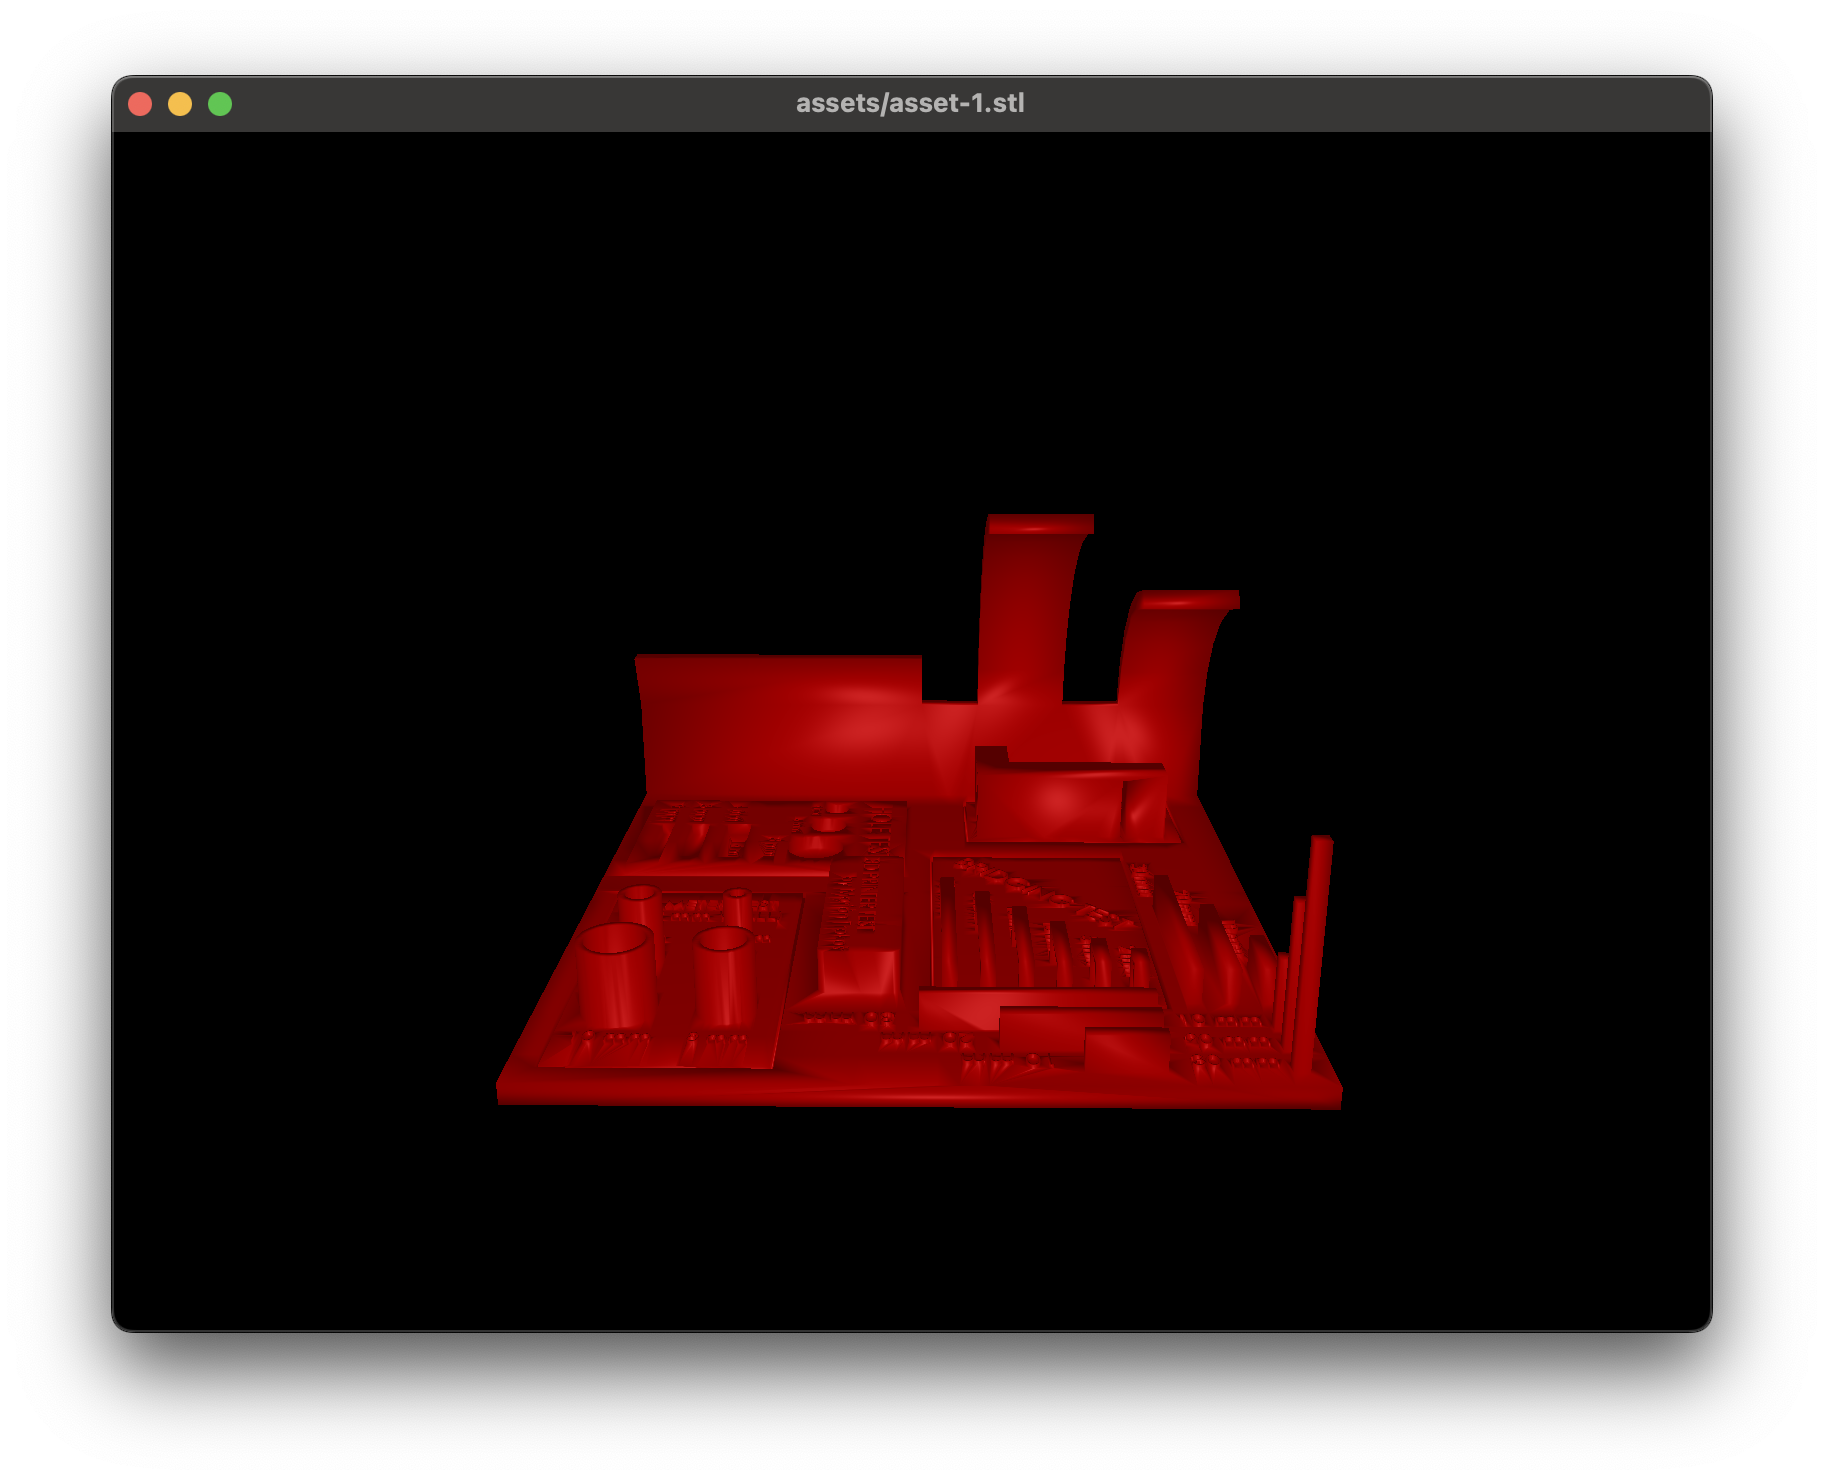
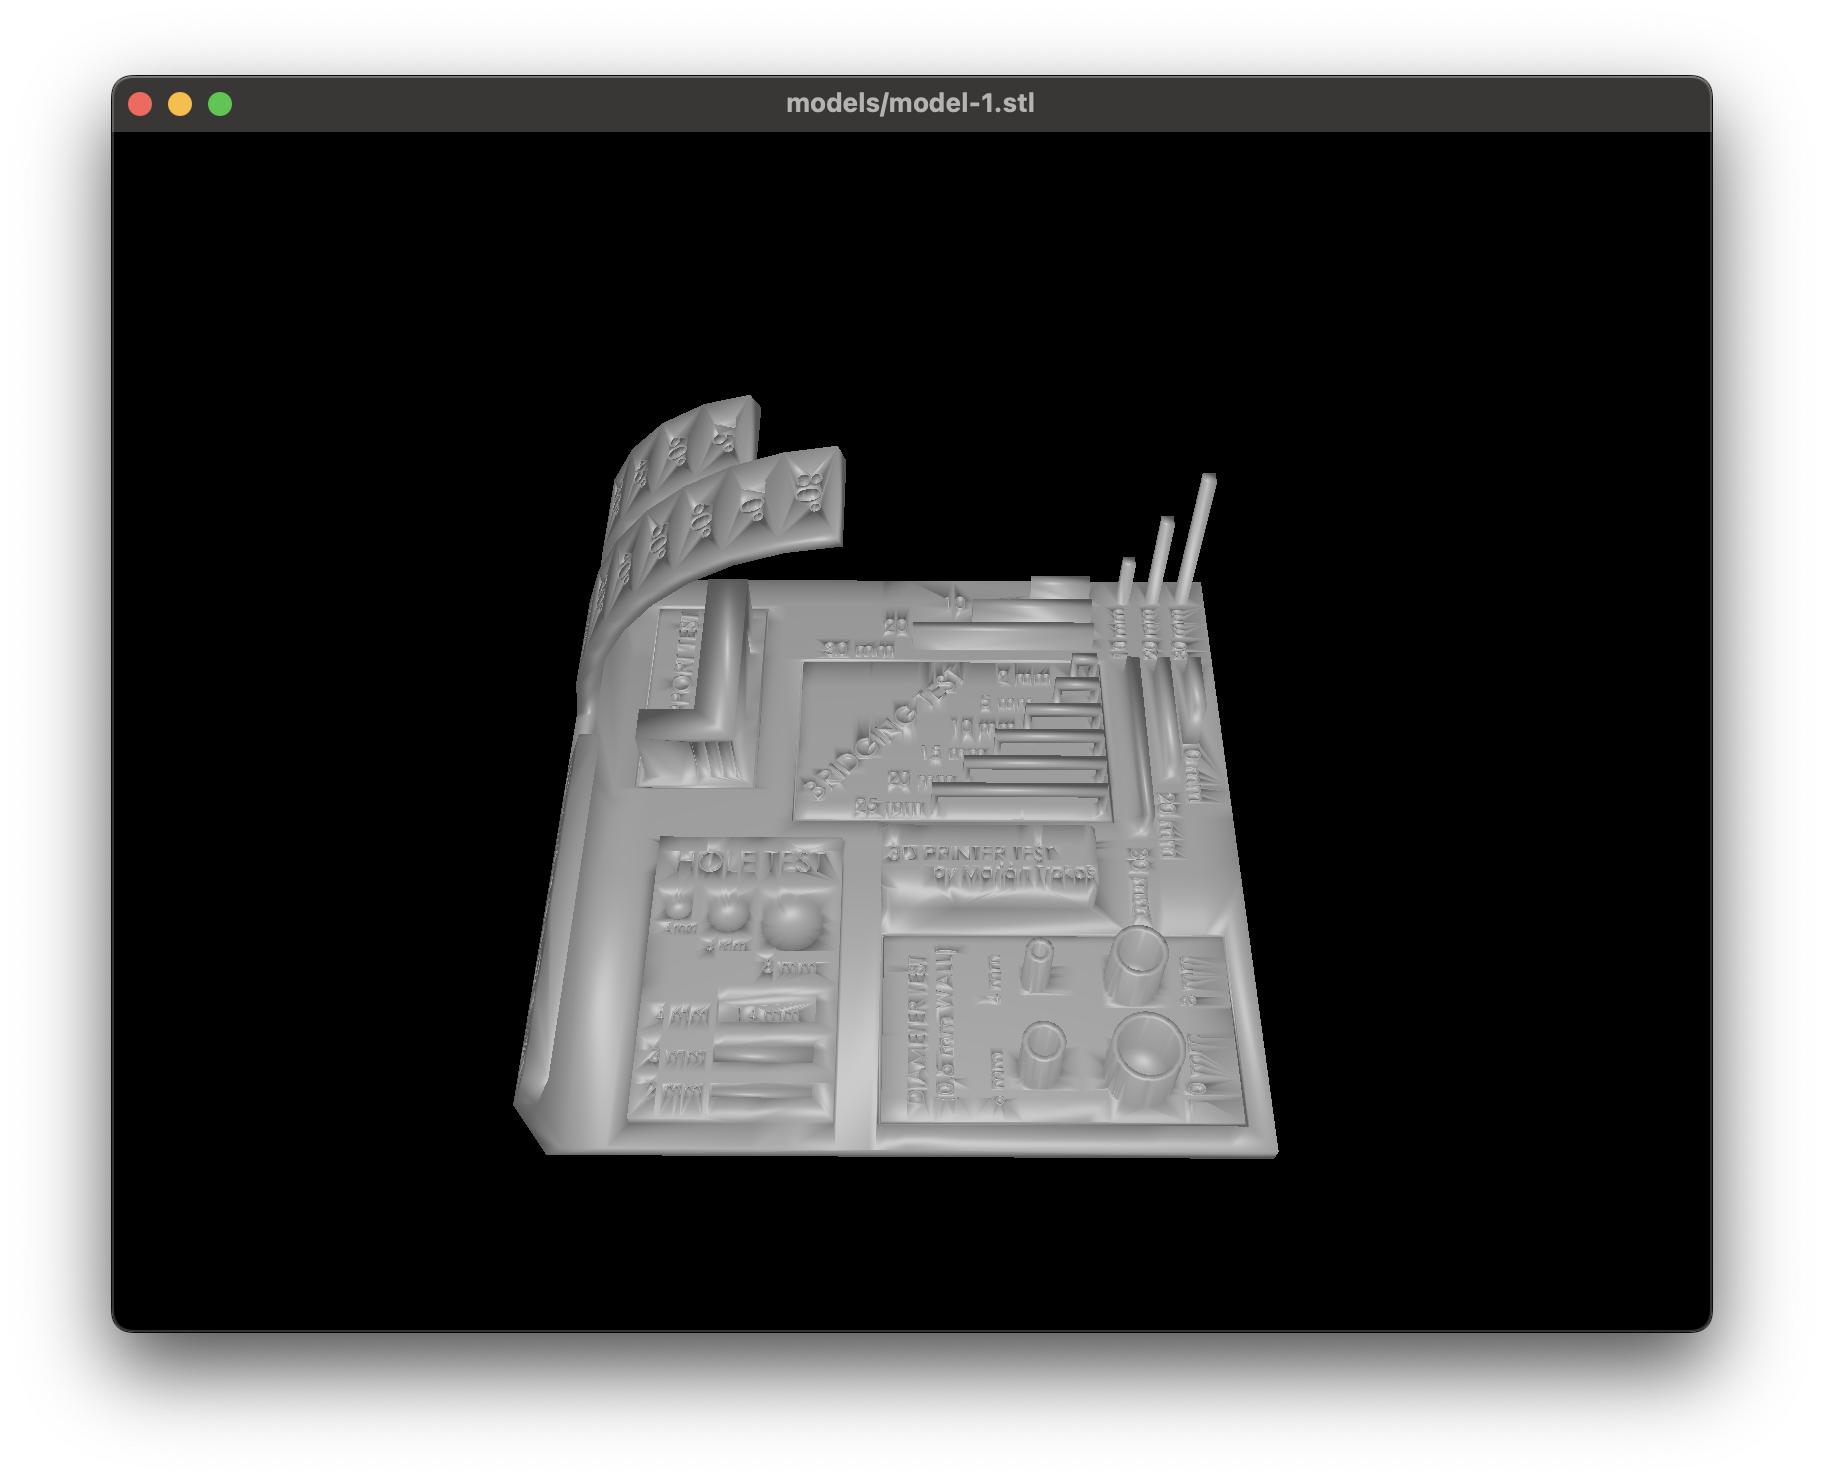
Update

Changed region(s): [[0.25, 0.2486, 0.75, 0.8081], [0.4375, 0.0622, 0.5625, 0.0932]]

diff --git a/src/main.rs b/src/main.rs
@@ -13,8 +13,8 @@ use std::path::Path;
 use std::rc::Rc;
 
 fn load_stl(filename: &Path) -> stl_io::IndexedMesh {
-    let mut f = File::open(&filename).expect("file not found");
-    stl_io::read_stl(&mut f).expect("can't read")
+    let mut f = File::open(&filename).expect("File not found");
+    stl_io::read_stl(&mut f).expect("Can't read")
 }
 
 fn to_resized_kiss_mesh(imesh: &stl_io::IndexedMesh) -> Mesh {
@@ -37,7 +37,7 @@ fn to_resized_kiss_mesh(imesh: &stl_io::IndexedMesh) -> Mesh {
         .iter()
         .map(|it| {
             Point3::new(
-                it.vertices[0] as u16, // may panic on very large meshes
+                it.vertices[0] as u16, 
                 it.vertices[1] as u16,
                 it.vertices[2] as u16,
             )
@@ -119,6 +119,7 @@ fn set_mesh(w: &mut Window, mut c: &mut SceneNode, mesh: Mesh) -> SceneNode {
     w.remove_node(&mut c);
     let mut n = w.add_mesh(Rc::new(RefCell::new(mesh)), Vector3::new(0.3, 0.3, 0.3));
     n.set_color(1.0, 0.0, 0.0);
+    n.set_color(1.0, 1.0, 1.0);
     n
 }
 

diff --git a/README.md b/README.md
@@ -1,19 +1,19 @@
-# Rust STL Viewer
+# Stylly
 
-STL viewer written in Rust.
+STL viewer written in Rust. This project is still in development.
 
 ## Installation
 
 ```bash
-git clone https://github.com/mantreshkhurana/rust-stl-viewer.git
-cd rust-stl-viewer
+git clone https://github.com/mantreshkhurana/stylly.git
+cd stylly
 cargo install --path .
 ```
 
 ## Usage
 
 ```bash
-rust-stl-viewer path/to/model.stl
+stylly path/to/model.stl
 ```
 
 ## Test
@@ -22,7 +22,7 @@ rust-stl-viewer path/to/model.stl
 cargo run models/model-1.stl 
 ```
 
-> Example: `rust-stl-viewer models/model-1.stl`
+> Example: `stylly models/model-1.stl`
 
 ## Screenshots
 
